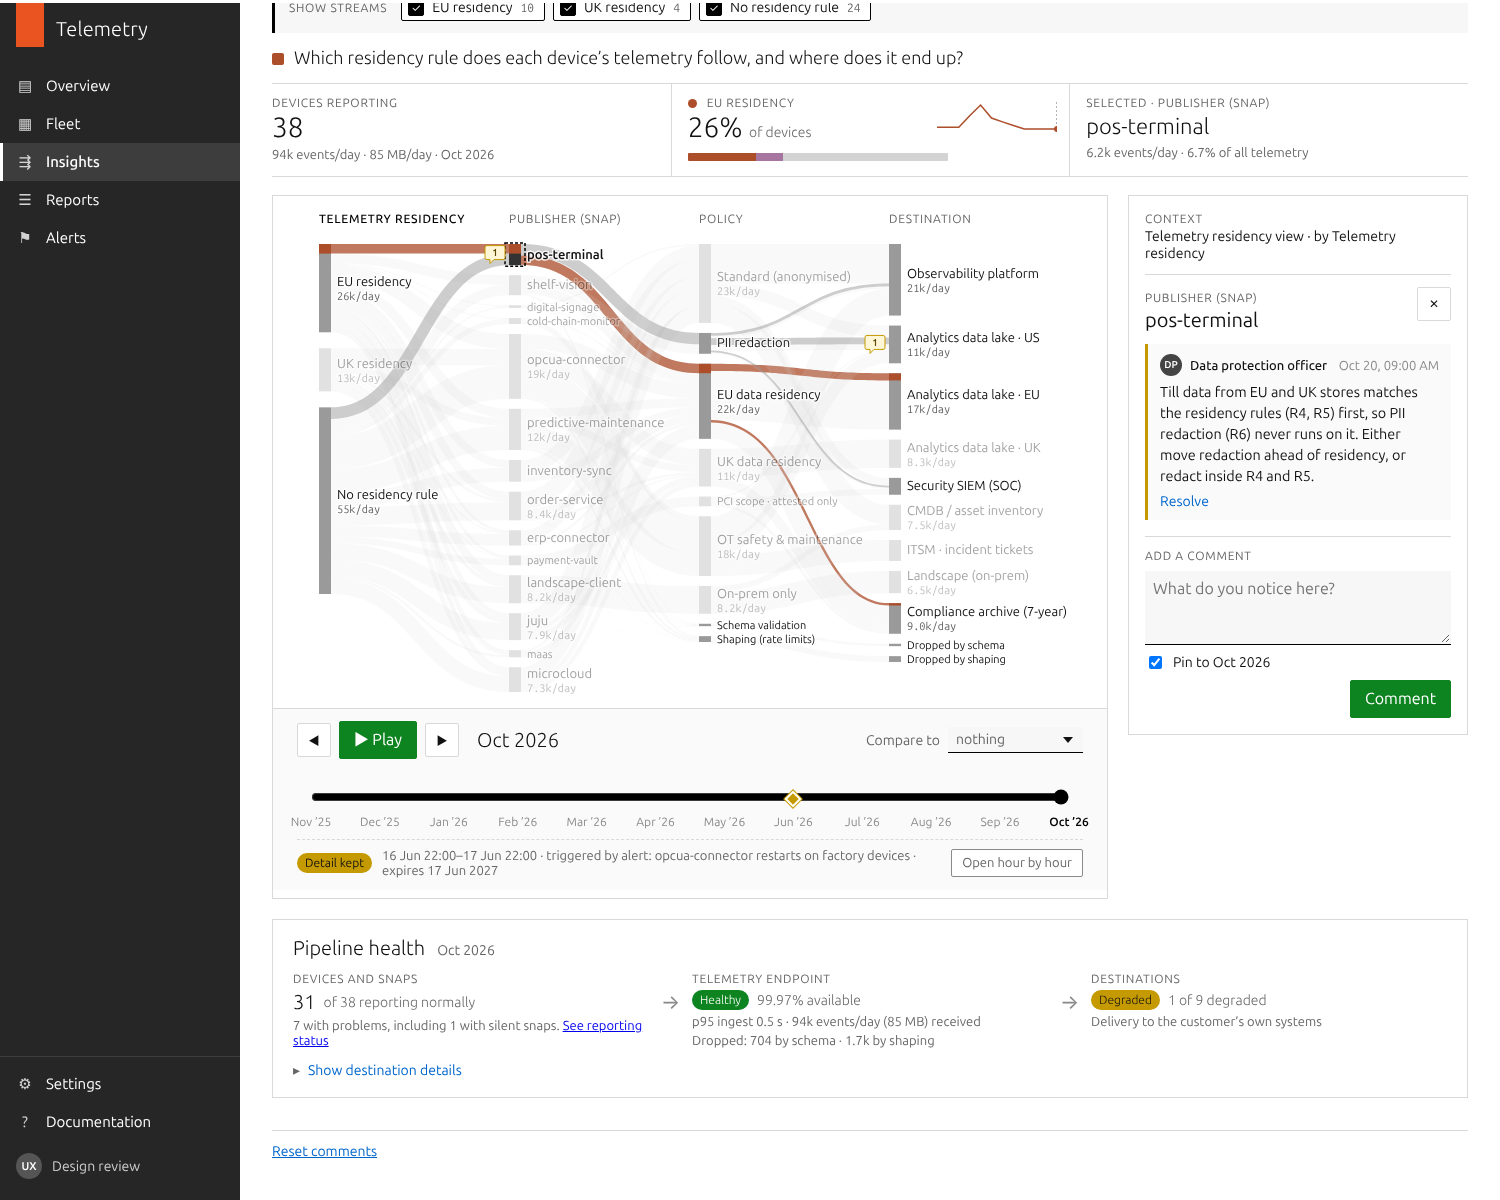
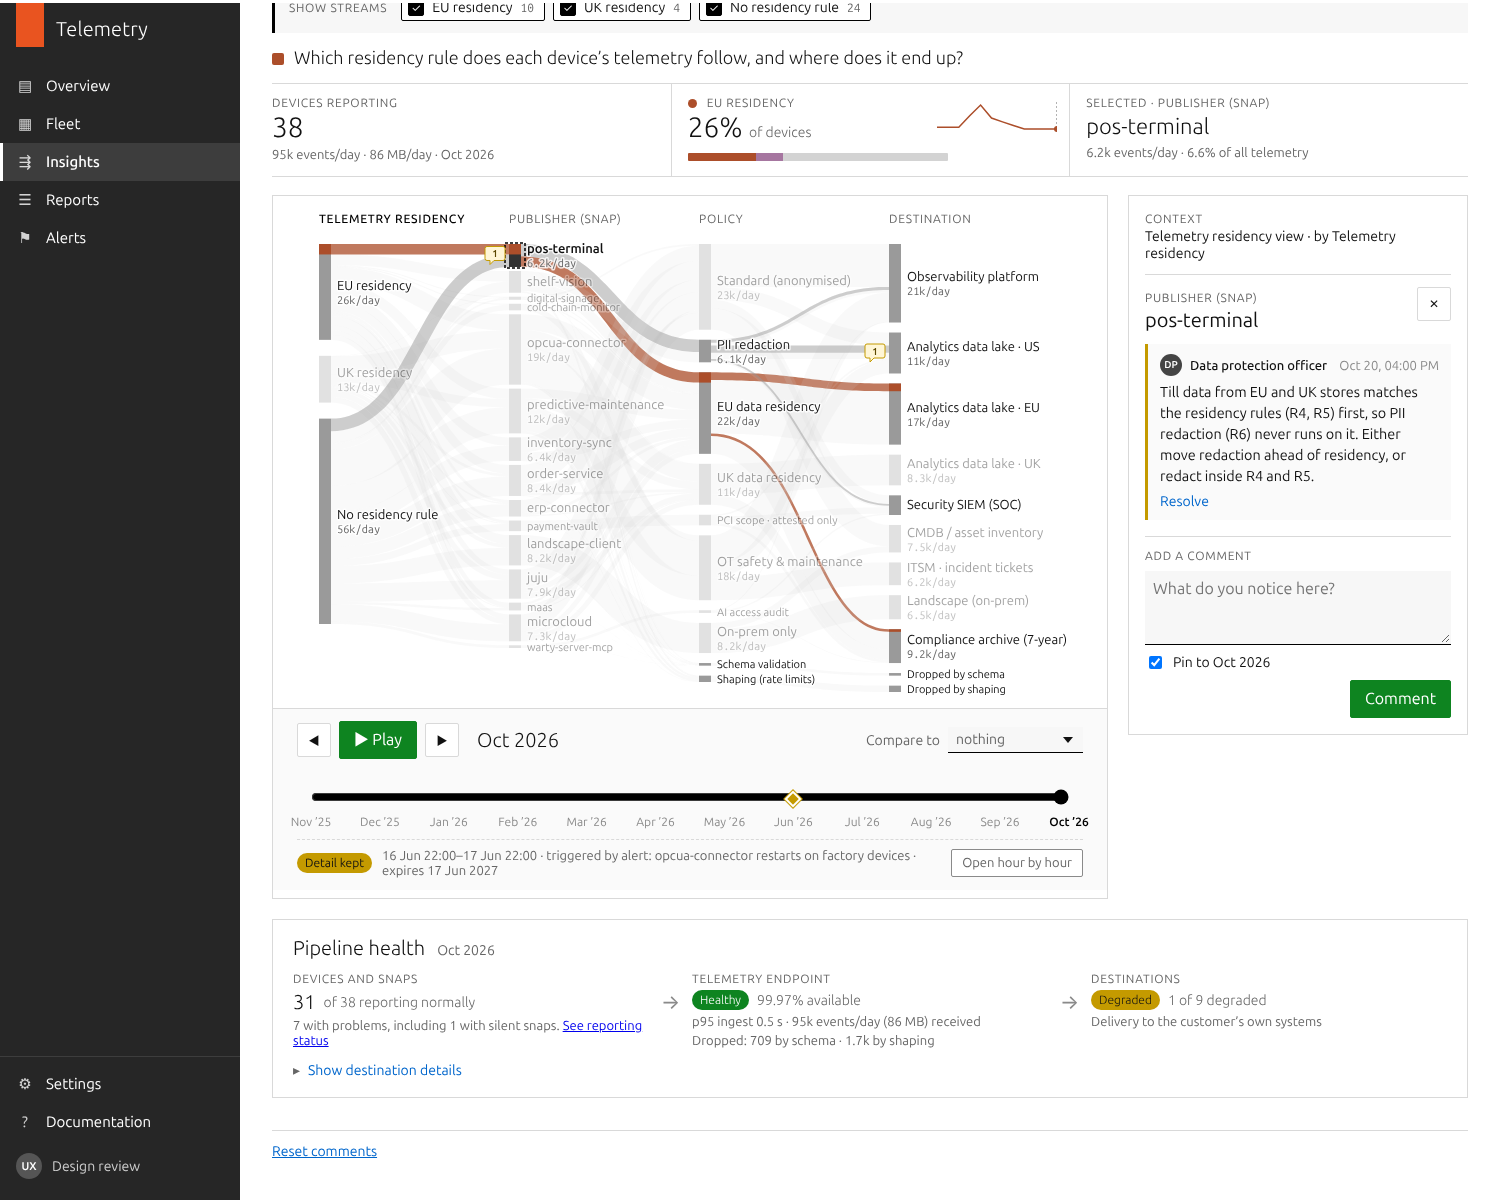
Add warty-server-mcp pilot on nyc-dc-01
An MCP server snap that understands the fleet behind it and answers Warty
Ubuntu AI. Its tool calls are routed by a new R10 'AI access audit' rule to
the SIEM, observability and archive. Seeded Platform engineering comment.

Claude-Session: https://claude.ai/code/session_0156BKrAD5wHGfcWHmuamSMf

diff --git a/js/data.js b/js/data.js
@@ -202,6 +202,7 @@ window.TL = window.TL || {};
     { id: 'juju', label: 'juju', canonical: true, note: 'Application operations' },
     { id: 'maas', label: 'maas', canonical: true, note: 'Bare-metal provisioning' },
     { id: 'microcloud', label: 'microcloud', canonical: true, note: 'Edge/private cloud cluster' },
+    { id: 'mcp', label: 'warty-server-mcp', canonical: true, note: 'MCP server that understands the fleet behind it and answers Warty Ubuntu AI' },
     // home-lab snaps (hobby fleet)
     { id: 'homeauto', label: 'home-automation', note: 'Home automation hub' },
     { id: 'media', label: 'media-server', note: 'Media library and streaming' },
@@ -214,6 +215,7 @@ window.TL = window.TL || {};
     { id: 'uk-res', label: 'UK data residency' },
     { id: 'attested', label: 'PCI scope · attested only' },
     { id: 'ot', label: 'OT safety & maintenance' },
+    { id: 'ai-audit', label: 'AI access audit' },
     { id: 'local', label: 'On-prem only' },
     { id: 'schema', label: 'Schema validation' },
     { id: 'shaping', label: 'Shaping (rate limits)' }] };
@@ -240,6 +242,8 @@ window.TL = window.TL || {};
   const ROUTING = [
     { id: 'R2', at: 'endpoint', when: { publisher: 'payment' }, policy: 'attested', to: [['siem', 0.6], ['archive', 0.25], ['lake-us', 0.15]] },
     { id: 'R3', at: 'endpoint', when: { publisher: 'landscape' }, policy: 'local', to: [['landscape', 0.8], ['cmdb', 0.2]] },
+    // every question Warty Ubuntu AI asks through the MCP server is kept as an audit trail
+    { id: 'R10', at: 'endpoint', when: { publisher: 'mcp' }, policy: 'ai-audit', to: [['siem', 0.5], ['observability', 0.3], ['archive', 0.2]] },
     { id: 'R4', at: 'endpoint', when: { sovereignty: 'eu' }, policy: 'eu-res', to: [['lake-eu', 0.75], ['archive', 0.25]] },
     { id: 'R5', at: 'endpoint', when: { sovereignty: 'uk' }, policy: 'uk-res', to: [['lake-uk', 0.75], ['archive', 0.25]] },
     { id: 'R6', at: 'endpoint', when: { publisher: ['pos', 'shelfcam'] }, policy: 'redact', to: [['lake-us', 0.6], ['observability', 0.25], ['siem', 0.15]] },
@@ -284,10 +288,10 @@ window.TL = window.TL || {};
   const SHAPING_DROP = { shelfcam: 0.06, predmaint: 0.05, plc: 0.03, pos: 0.01, order: 0.015, dns: 0.08 };
   // typical event size per snap, in bytes (for data volume)
   const EVENT_BYTES = { pos: 850, shelfcam: 2600, signage: 320, coldchain: 220, plc: 420, predmaint: 1300, inventory: 650,
-    order: 950, erp: 1600, payment: 700, landscape: 1200, juju: 520, maas: 430, microcloud: 470,
+    order: 950, erp: 1600, payment: 700, landscape: 1200, juju: 520, maas: 430, microcloud: 470, mcp: 900,
     homeauto: 300, media: 520, filesync: 410, dns: 160 };
   const BASE_RATE = { pos: 900, shelfcam: 1400, signage: 120, coldchain: 300, plc: 1100, predmaint: 700,
-    inventory: 800, order: 1000, erp: 500, payment: 300, landscape: 350, juju: 350, maas: 250, microcloud: 300,
+    inventory: 800, order: 1000, erp: 500, payment: 300, landscape: 350, juju: 350, maas: 250, microcloud: 300, mcp: 420,
     homeauto: 600, media: 250, filesync: 400, dns: 900 };
   const SITE_BY_TYPE = {
     edge: { store: 60, factory: 40 }, metal: { dc: 40, factory: 35, datacentre: 25 },
@@ -476,6 +480,7 @@ window.TL = window.TL || {};
     if (a.juju !== 'none') out.push('juju');
     if (a.maas !== 'none') out.push('maas');
     if (a.microcloud === 'member') out.push('microcloud');
+    if (a.mcp === 'yes') out.push('mcp');
     return out;
   }
 
@@ -502,6 +507,12 @@ window.TL = window.TL || {};
   EXTRAS.forEach(function (d, j) { initHealth(d, DEVICES.length + j); });
   EXTRAS.forEach(nameDevice);
   Array.prototype.push.apply(DEVICES, EXTRAS);
+  // warty-server-mcp: an MCP server piloted from Sep 2026 on one full-stack data-centre host
+  // (Juju, MicroCloud). It reads the fleet behind it and answers Warty Ubuntu AI; its own
+  // telemetry is the tool calls it serves.
+  DEVICES.filter(function (d) { return d.id === 'nyc-dc-01'; }).forEach(function (d) {
+    d.changes.push({ month: 10, attrs: { mcp: 'yes' }, note: 'Installed warty-server-mcp (pilot)' });
+  });
 
   if (FLEET === 'hobby') ATTRIBUTES.site.values.splice(ATTRIBUTES.site.values.length - 1, 0, { id: 'home', label: 'Home lab' });
   const DIMENSIONS = {

diff --git a/index.html b/index.html
@@ -6,7 +6,7 @@
   <title>Insights · Telemetry</title>
   <link rel="preconnect" href="https://fonts.googleapis.com">
   <link rel="stylesheet" href="https://fonts.googleapis.com/css2?family=Ubuntu+Sans:wght@300;400;500;600&family=Ubuntu+Sans+Mono&display=swap">
-  <link rel="stylesheet" href="css/app.css?v=20261103n">
+  <link rel="stylesheet" href="css/app.css?v=20261103p">
 </head>
 <body>
 <div class="l-app">
@@ -98,10 +98,10 @@
 <dialog class="p-modal" id="assign-dialog" aria-labelledby="assign-title"></dialog>
 <dialog class="p-modal p-modal--wide" id="closeup-dialog" aria-labelledby="closeup-title"></dialog>
 
-<script src="js/data.js?v=20261103n"></script>
-<script src="js/sankey.js?v=20261103n"></script>
-<script src="js/comments.js?v=20261103n"></script>
-<script src="js/closeup.js?v=20261103n"></script>
-<script src="js/app.js?v=20261103n"></script>
+<script src="js/data.js?v=20261103p"></script>
+<script src="js/sankey.js?v=20261103p"></script>
+<script src="js/comments.js?v=20261103p"></script>
+<script src="js/closeup.js?v=20261103p"></script>
+<script src="js/app.js?v=20261103p"></script>
 </body>
 </html>

diff --git a/js/comments.js b/js/comments.js
@@ -20,9 +20,11 @@
  */
 (function (TL) {
   'use strict';
-  const KEY = 'tl.insights.comments.v15';
+  const KEY = 'tl.insights.comments.v16';
 
   const SEED = [
+    { anchor: { view: 'neutral', groupBy: 'device', node: 'publisher:mcp', period: '2026-09' }, createdAt: '2026-09-24T10:00:00Z',
+      author: 'Platform engineering', body: 'Piloting warty-server-mcp on nyc-dc-01. Warty Ubuntu AI can now answer questions about the fleet behind it (what runs where, what is unhealthy, what changed). Every tool call goes to the SIEM and the archive under R10, so we can audit what the assistant looked at.' },
     { anchor: { view: 'sovereignty', groupBy: 'sovereignty', node: 'publisher:pos', period: null },
       author: 'Data protection officer', body: 'Till data from EU and UK stores matches the residency rules (R4, R5) first, so PII redaction (R6) never runs on it. Either move redaction ahead of residency, or redact inside R4 and R5.' },
     { anchor: { view: 'lifecycle', groupBy: 'device', node: 'device:ldn-plant-04', period: null },

diff --git a/CLAUDE.md b/CLAUDE.md
@@ -80,6 +80,10 @@ Prototype of the **Insights** page (Telemetry product): a single-page Sankey. Se
 - One kept window: 16 Jun 2026 22:00–17 Jun 22:00 UTC, triggered by the opcua-connector restarts alert (03:45), scope opcua-connector on factory devices, expires 17 Jun 2027. Diamond on June + "Detail kept" line on the monthly timeline → close-up dialog (`js/closeup.js`) with hourly Sankey, KPIs, numbered events (23:00 r214 stable, 03:45 alert, 08:42 Ana, 09:15 Tom's hold).
 - nyc-plant-02 and sfo-plant-01 were caught by the hold (never ran r214): no factory incident penalty or partial reporting for them in Jun/Jul.
 
+## warty-server-mcp
+- Canonical MCP server snap (publisher `mcp`, label `warty-server-mcp`) piloted on nyc-dc-01 from Sep 2026 (change note in tooltip). It understands the fleet behind it and gives useful info to **Warty Ubuntu AI**.
+- Its telemetry = tool calls served, routed by R10 "AI access audit" to SIEM 50% / observability 30% / archive 20%. Seeded Platform engineering comment on publisher:mcp (Neutral · devices · Sep 2026).
+
 ## Other points from Mark's review
 - Point 6: in the final app, rules link to the individual rule's config in the same Telemetry app (no change to the prototype).
 - Point 7: this page is for people responsible for governing data flow; larger orgs have more specialised roles. A role-based focus belongs on the Overview/home page, not here.

diff --git a/README.md b/README.md
@@ -184,7 +184,10 @@ The fleet is modelled on a large retailer or manufacturer, spread across retail 
 Policy rules route these by sensitivity:
 - camera and till data get PII redaction (R6),
 - factory and sensor data follow the OT policy to observability and ITSM (R7),
-- payment data is PCI scope, attested only (R2).
+- payment data is PCI scope, attested only (R2),
+- `warty-server-mcp` tool calls are kept as an AI access audit trail in the SIEM, observability and the archive (R10).
+
+**warty-server-mcp** is an MCP server piloted on `nyc-dc-01` (a full-stack data-centre host: Juju 4.1, MicroCloud) from September 2026. It understands the fleet behind it and answers questions from Warty Ubuntu AI; its own telemetry is the tool calls it serves. A Platform engineering comment on the publisher explains the pilot.
 
 ## Health
 
